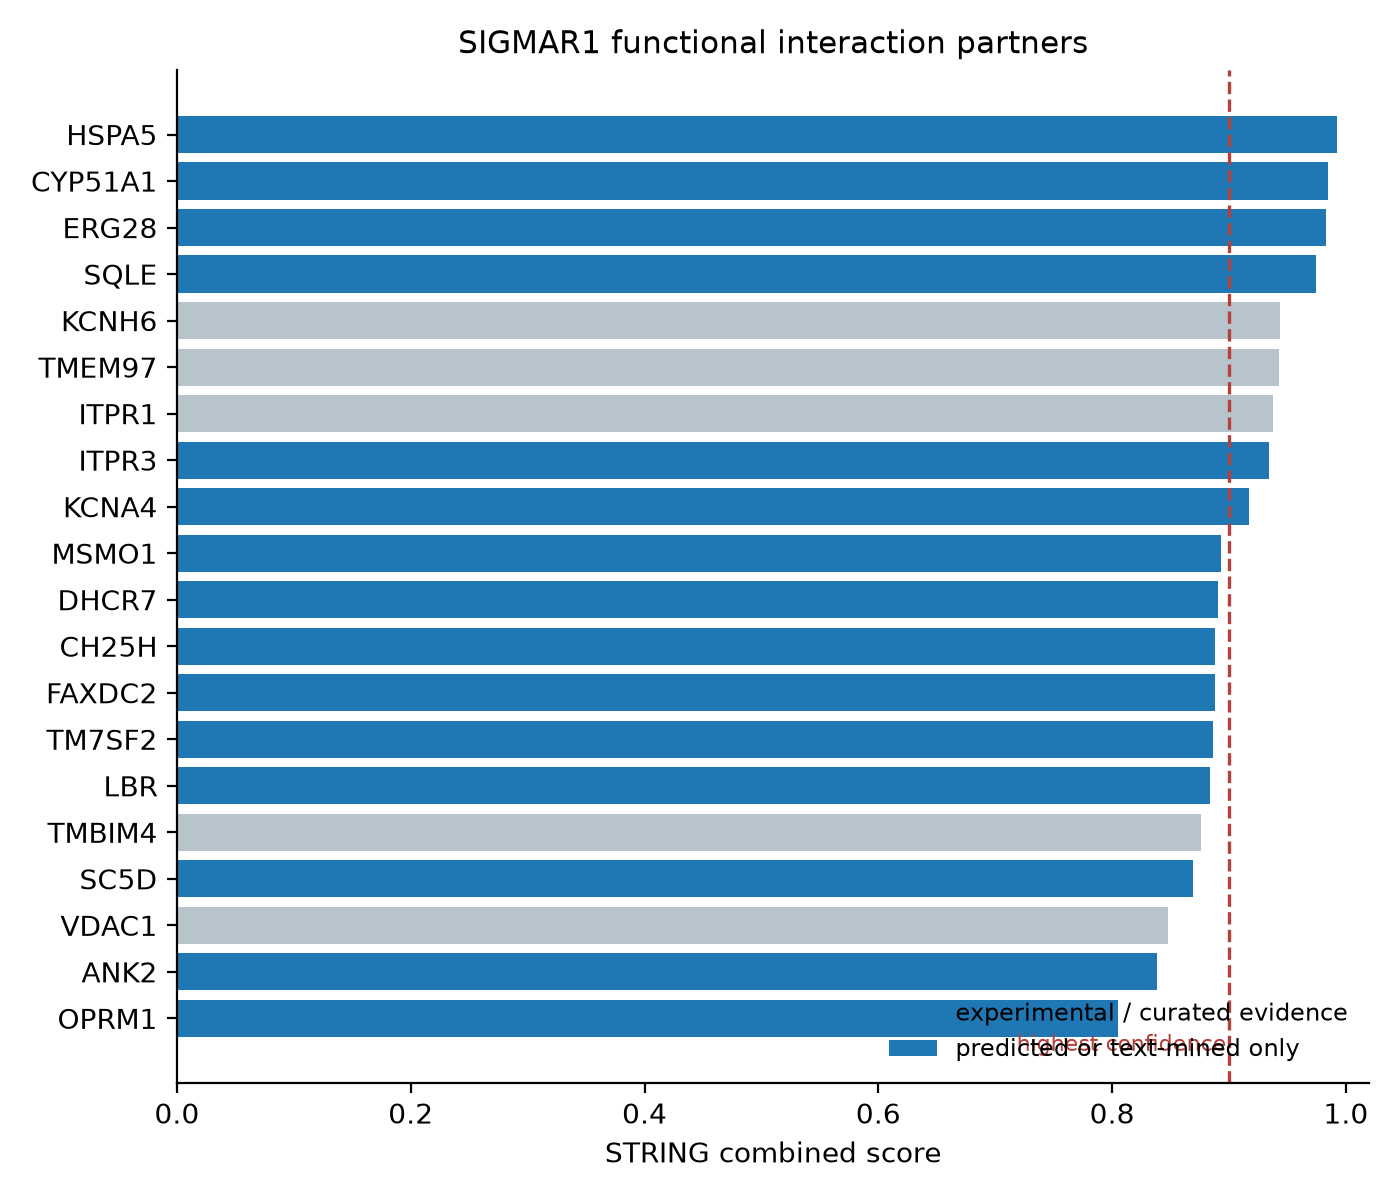
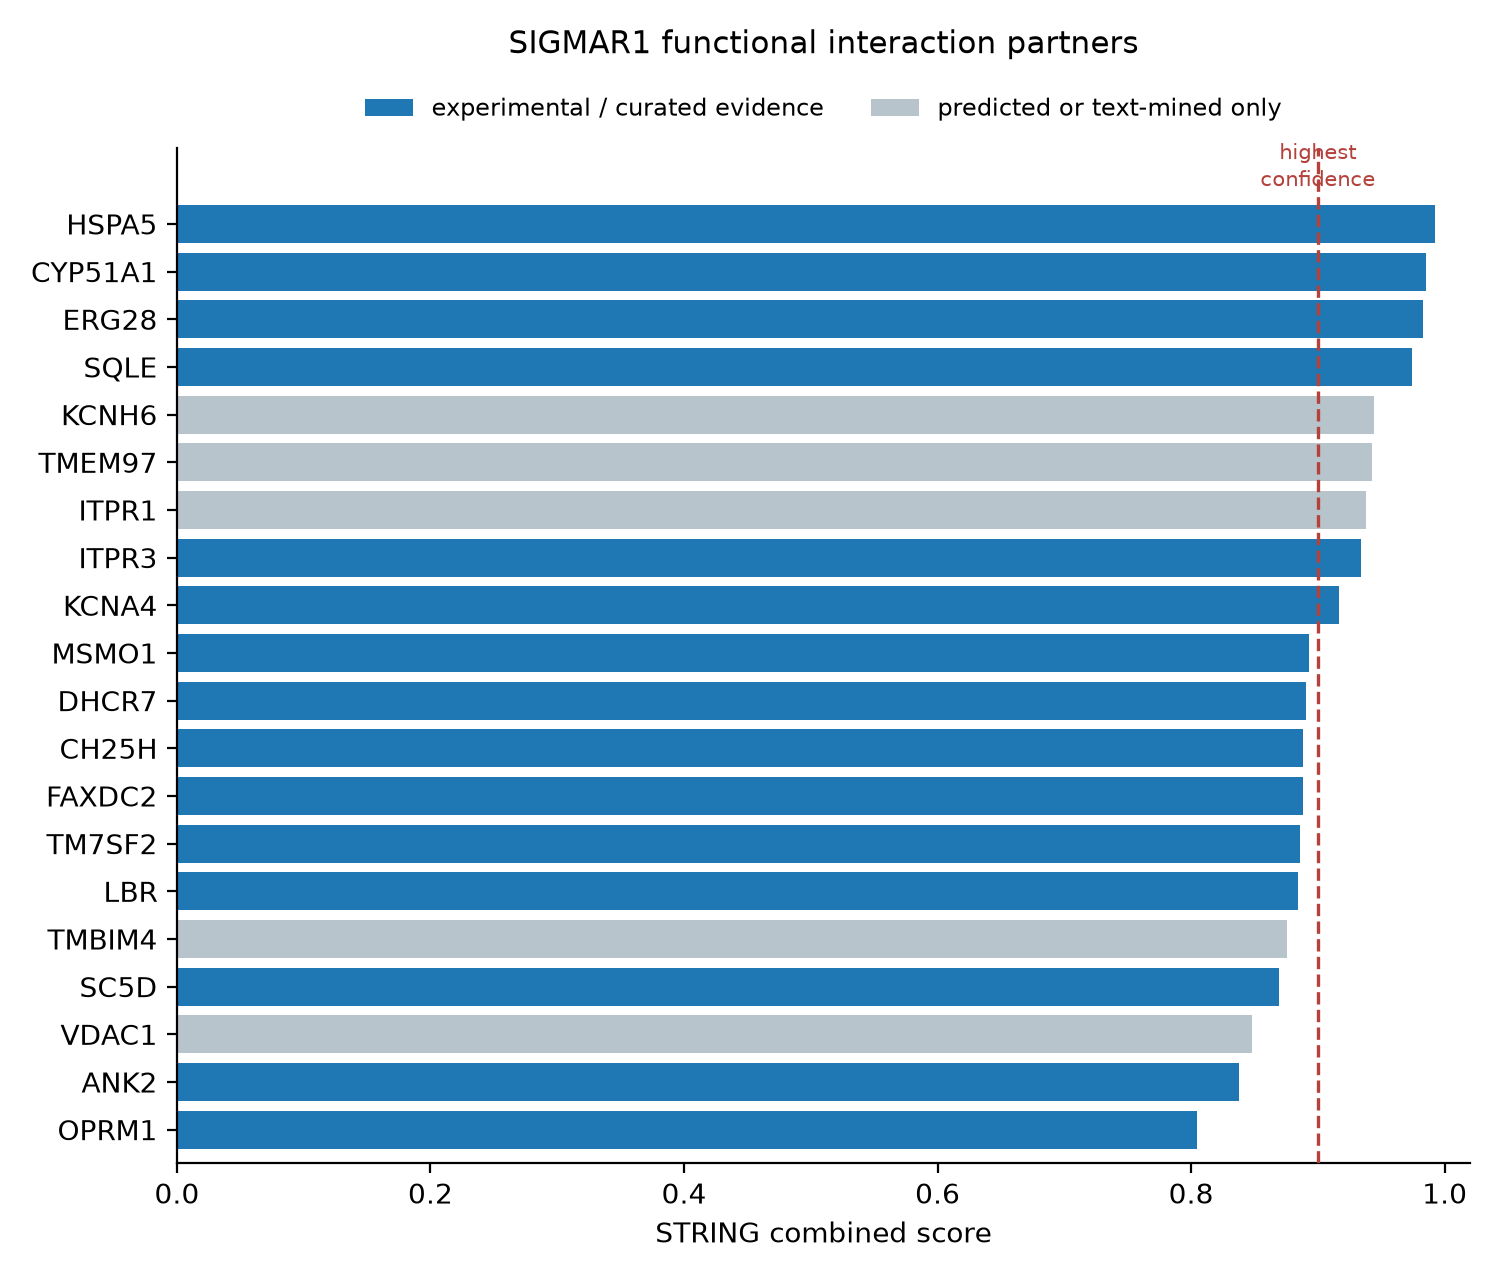
Fix legend rendering in the STRING partners figure
Bars plotted with empty data produce no legend swatch, so the evidence-class
key rendered without colours. Use explicit Patch handles and move the legend
above the axes, where it no longer covers the lowest-scoring partners.

diff --git a/src/amynet/plots.py b/src/amynet/plots.py
@@ -216,18 +216,35 @@ def plot_string_partners(
     scores = [i.combined_score for i in selected]
     colours = [BLUE if i.has_physical_evidence else GREY for i in selected]
 
-    fig, ax = plt.subplots(figsize=(7, max(4, len(selected) * 0.3)))
+    fig, ax = plt.subplots(figsize=(7.5, max(4, len(selected) * 0.32)))
     ax.barh(labels, scores, color=colours)
 
-    ax.axvline(0.9, color=RED, linestyle="--", linewidth=1.2)
-    ax.text(0.898, -0.7, "highest confidence", ha="right", fontsize=8, color=RED)
+    ax.axvline(0.9, color=RED, linestyle="--", linewidth=1.2, zorder=3)
+    ax.text(
+        0.9, len(selected) - 0.3, "highest\nconfidence",
+        ha="center", va="bottom", fontsize=7.5, color=RED, linespacing=1.2,
+    )
 
     ax.set_xlim(0, 1.02)
+    ax.set_ylim(-0.7, len(selected) + 0.6)
     ax.set_xlabel("STRING combined score")
-    ax.set_title("SIGMAR1 functional interaction partners", fontsize=11)
-    ax.barh([], [], color=BLUE, label="experimental / curated evidence")
-    ax.barh([], [], color=GREY, label="predicted or text-mined only")
-    ax.legend(frameon=False, fontsize=8.5, loc="lower right")
+    ax.set_title("SIGMAR1 functional interaction partners", fontsize=11, pad=34)
+
+    # Explicit handles: bars with empty data produce no legend swatch. The
+    # legend sits above the axes because every row of the plot is occupied.
+    from matplotlib.patches import Patch
+
+    ax.legend(
+        handles=[
+            Patch(facecolor=BLUE, label="experimental / curated evidence"),
+            Patch(facecolor=GREY, label="predicted or text-mined only"),
+        ],
+        frameon=False,
+        fontsize=8.5,
+        ncol=2,
+        loc="lower center",
+        bbox_to_anchor=(0.5, 1.005),
+    )
     ax.spines[["top", "right"]].set_visible(False)
     fig.tight_layout()
 
